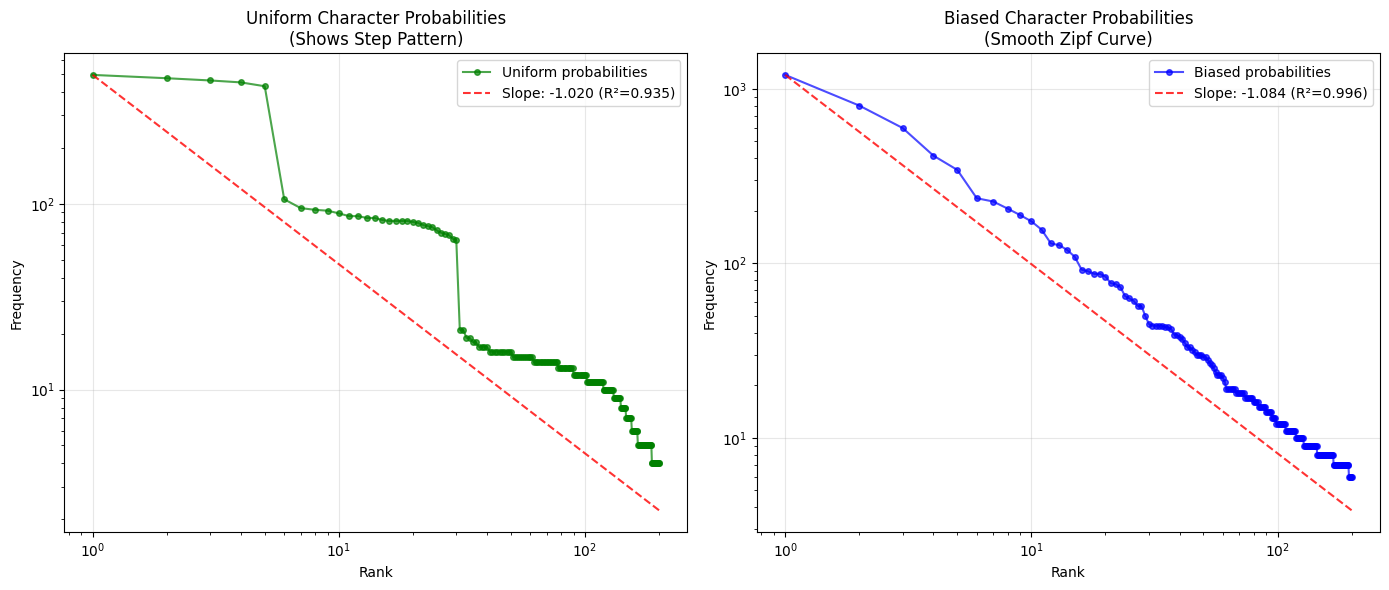
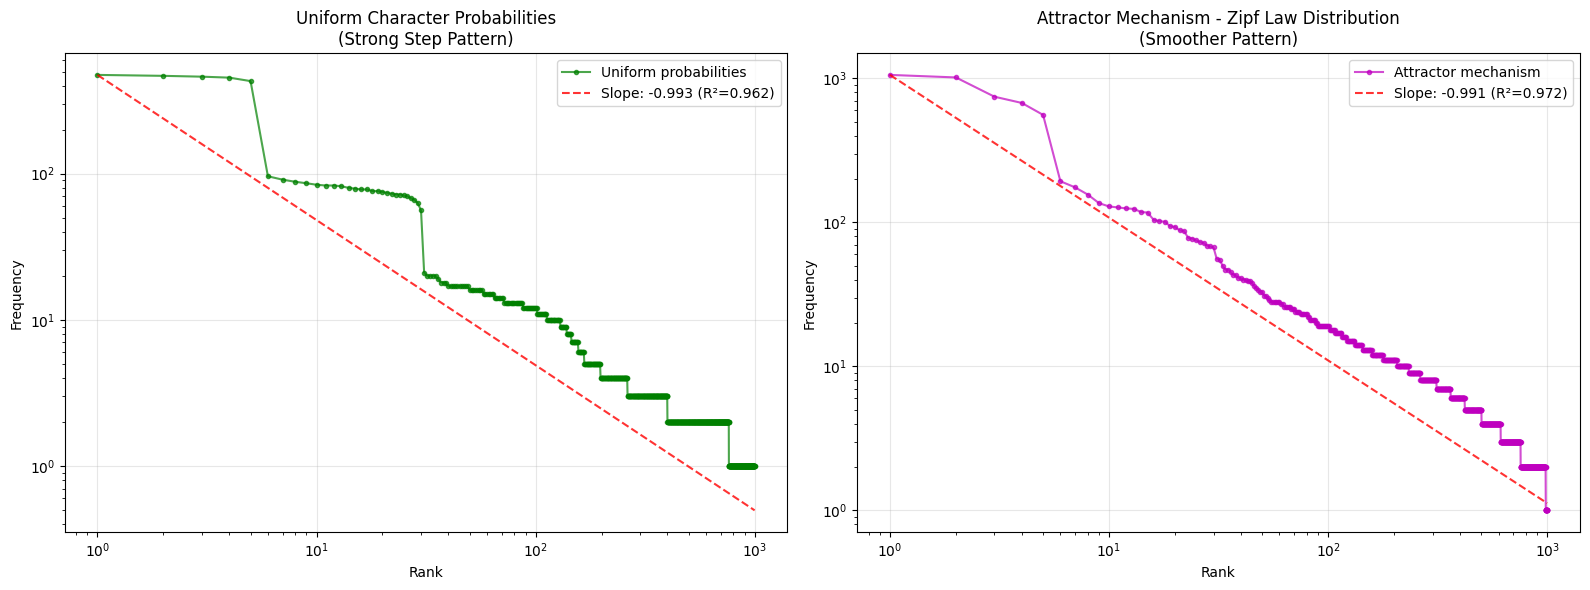
Update with attractor based probability distribution

diff --git a/posts/zipfs-law.md b/posts/zipfs-law.md
@@ -39,6 +39,8 @@ These occurrences hint at an emergent deeper pattern governing self-organizing n
 
 "In conclusion, Zipf's law is not a deep law in natural language as one might first have thought. It is very much related the particular representation one chooses, i.e., rank as the independent variable." -> Hinting again at a deeper pattern: the observer is part of the observation - the world is inherently subjective and will always look different depending how you look at it.
 
+I added an attractor based probability distribution (words that have occurred before are more likely to be sampled, which produces a smoother Zipf curve fit - hinting at attraction effects in natural processes?)
+
 ```python
 import random
 import matplotlib.pyplot as plt
@@ -46,18 +48,62 @@ from collections import Counter
 import numpy as np
 from scipy import stats
 
-def generate_li_uniform_text(num_chars=100000, alphabet=['a', 'b', 'c', 'd', 'e', '_']):
-    """Generate random text with uniform character probabilities"""
-    text = ''.join(random.choices(alphabet, k=num_chars))
-    words = [word for word in text.split('_') if word]
+attractor_strength = 1.11
+ALPHABET = ['a', 'b', 'c', 'd', 'e', '_']  # Example alphabet with underscore as word separator
+
+def calculate_dynamic_attractor_probability(total_words, base_prob=0.16, growth_rate=0.0008, max_prob=0.9):
+    """Calculate dynamic attractor probability based on total words generated"""
+    # Sigmoid-like growth: starts low, increases with more words, plateaus at max_prob
+    dynamic_prob = base_prob + (max_prob - base_prob) * (1 - np.exp(-growth_rate * total_words))
+    return min(dynamic_prob, max_prob)
+
+def generate_attractor_text(alphabet, num_chars=100000):
+    """Generate random text with dynamic attractor mechanism - probability increases with word count"""
+    words = []
+    word_counts = {}
+    
+    # Start with some initial random words
+    text = ''.join(random.choices(alphabet, k=num_chars // 10))
+    initial_words = [word for word in text.split('_') if word]
+    
+    for word in initial_words:
+        words.append(word)
+        word_counts[word] = word_counts.get(word, 0) + 1
+    
+    # Now generate words with dynamic preferential attachment
+    target_length = len(initial_words) * 10
+    
+    # Track probability changes for logging
+    prob_checkpoints = [len(words) * i // 10 for i in range(1, 11)]
+    
+    while len(words) < target_length:
+        # Calculate dynamic attractor probability based on total words generated
+        current_attractor_prob = calculate_dynamic_attractor_probability(len(words))
+        
+        # Log probability at checkpoints
+        if len(words) in prob_checkpoints:
+            print(f"Words generated: {len(words)}, Attractor probability: {current_attractor_prob:.3f}")
+        
+        if word_counts and random.random() < current_attractor_prob:  # Dynamic chance to use existing word
+            # Choose existing word with probability proportional to its frequency raised to power
+            word_list = list(word_counts.keys())
+            weights = [word_counts[word] ** attractor_strength for word in word_list]
+            chosen_word = random.choices(word_list, weights=weights, k=1)[0]
+            words.append(chosen_word)
+            word_counts[chosen_word] += 1
+        else:
+            # Generate new random word
+            word_length = random.randint(1, 5)
+            new_word = ''.join(random.choices(alphabet[:-1], k=word_length))
+            if new_word:  # Make sure it's not empty
+                words.append(new_word)
+                word_counts[new_word] = word_counts.get(new_word, 0) + 1
+    
     return words
 
-def generate_li_biased_text(num_chars=100000):
-    """Generate random text with biased character probabilities"""
-    alphabet = ['a', 'b', 'c', 'd', 'e', '_']
-    probabilities = [0.3, 0.2, 0.15, 0.1, 0.05, 0.2]  # biased weights
-    
-    text = ''.join(random.choices(alphabet, weights=probabilities, k=num_chars))
+def generate_li_uniform_text(alphabet, num_chars=100000):
+    """Generate random text with uniform character probabilities"""
+    text = ''.join(random.choices(alphabet, k=num_chars))
     words = [word for word in text.split('_') if word]
     return words
 
@@ -74,63 +120,61 @@ def calculate_zipf_slope(ranks, frequencies):
     slope, _, r_value, _, _ = stats.linregress(log_ranks[valid], log_freqs[valid])
     return slope, r_value**2
 
-def plot_li_experiments():
-    """Generate and plot both Li experiments"""
-    print("Generating Li's experiments...")
+def plot_attractor_experiment():
+    """Generate and plot attractor experiment with uniform comparison"""
+    print("Generating attractor mechanism experiment with uniform comparison...")
     
     # Generate data
-    uniform_words = generate_li_uniform_text()
-    biased_words = generate_li_biased_text()
+    uniform_words = generate_li_uniform_text(ALPHABET)
+    attractor_words = generate_attractor_text(ALPHABET)
     
-    print(f"Generated {len(uniform_words)} uniform words, {len(biased_words)} biased words")
+    print(f"Generated {len(uniform_words)} uniform words and {len(attractor_words)} attractor words")
     
     # Get frequency distributions
-    uniform_counts = Counter(uniform_words).most_common(200)
-    biased_counts = Counter(biased_words).most_common(200)
+    uniform_counts = Counter(uniform_words).most_common(1000)
+    attractor_counts = Counter(attractor_words).most_common(1000)
     
     # Prepare data for plotting
     uniform_ranks = np.array(range(1, len(uniform_counts) + 1))
     uniform_freqs = np.array([count for _, count in uniform_counts])
     
-    biased_ranks = np.array(range(1, len(biased_counts) + 1))
-    biased_freqs = np.array([count for _, count in biased_counts])
+    attractor_ranks = np.array(range(1, len(attractor_counts) + 1))
+    attractor_freqs = np.array([count for _, count in attractor_counts])
     
     # Calculate slopes
     uniform_slope, uniform_r2 = calculate_zipf_slope(uniform_ranks, uniform_freqs)
-    biased_slope, biased_r2 = calculate_zipf_slope(biased_ranks, biased_freqs)
+    attractor_slope, attractor_r2 = calculate_zipf_slope(attractor_ranks, attractor_freqs)
     
-    # Create plots
-    fig, (ax1, ax2) = plt.subplots(1, 2, figsize=(14, 6))
+    # Create comparison plot
+    fig, (ax1, ax2) = plt.subplots(1, 2, figsize=(16, 6))
     
     # Uniform case
-    ax1.loglog(uniform_ranks, uniform_freqs, 'go-', alpha=0.7, markersize=4, 
+    ax1.loglog(uniform_ranks, uniform_freqs, 'go-', alpha=0.7, markersize=3, 
                label='Uniform probabilities')
     
     if uniform_slope:
-        # Add fitted line
         fitted_line = uniform_freqs[0] * (uniform_ranks ** uniform_slope)
         ax1.loglog(uniform_ranks, fitted_line, 'r--', alpha=0.8, 
                    label=f'Slope: {uniform_slope:.3f} (R²={uniform_r2:.3f})')
     
     ax1.set_xlabel('Rank')
     ax1.set_ylabel('Frequency')
-    ax1.set_title('Uniform Character Probabilities\n(Shows Step Pattern)')
+    ax1.set_title('Uniform Character Probabilities\n(Strong Step Pattern)')
     ax1.grid(True, alpha=0.3)
     ax1.legend()
     
-    # Biased case
-    ax2.loglog(biased_ranks, biased_freqs, 'bo-', alpha=0.7, markersize=4, 
-               label='Biased probabilities')
+    # Attractor case
+    ax2.loglog(attractor_ranks, attractor_freqs, 'mo-', alpha=0.7, markersize=3, 
+               label='Attractor mechanism')
     
-    if biased_slope:
-        # Add fitted line
-        fitted_line = biased_freqs[0] * (biased_ranks ** biased_slope)
-        ax2.loglog(biased_ranks, fitted_line, 'r--', alpha=0.8, 
-                   label=f'Slope: {biased_slope:.3f} (R²={biased_r2:.3f})')
+    if attractor_slope:
+        fitted_line = attractor_freqs[0] * (attractor_ranks ** attractor_slope)
+        ax2.loglog(attractor_ranks, fitted_line, 'r--', alpha=0.8, 
+                   label=f'Slope: {attractor_slope:.3f} (R²={attractor_r2:.3f})')
     
     ax2.set_xlabel('Rank')
     ax2.set_ylabel('Frequency')
-    ax2.set_title('Biased Character Probabilities\n(Smooth Zipf Curve)')
+    ax2.set_title('Attractor Mechanism - Zipf Law Distribution\n(Smoother Pattern)')
     ax2.grid(True, alpha=0.3)
     ax2.legend()
     
@@ -139,13 +183,18 @@ def plot_li_experiments():
     
     # Print results
     print(f"\nResults:")
-    print(f"Uniform case: slope = {uniform_slope:.4f}, R² = {uniform_r2:.4f}")
-    print(f"Biased case:  slope = {biased_slope:.4f}, R² = {biased_r2:.4f}")
-    print(f"\nKey finding: Uniform probabilities create 'steps' in the distribution,")
-    print(f"while biased probabilities create a smooth Zipf-like curve.")
+    uniform_slope_str = f"{uniform_slope:.4f}" if uniform_slope is not None else "N/A"
+    uniform_r2_str = f"{uniform_r2:.4f}" if uniform_r2 is not None else "N/A"
+    attractor_slope_str = f"{attractor_slope:.4f}" if attractor_slope is not None else "N/A"
+    attractor_r2_str = f"{attractor_r2:.4f}" if attractor_r2 is not None else "N/A"
+    
+    print(f"Uniform case:   slope = {uniform_slope_str}, R² = {uniform_r2_str}")
+    print(f"Attractor case: slope = {attractor_slope_str}, R² = {attractor_r2_str}")
+    print(f"\nKey finding: The attractor mechanism creates a stronger Zipf-like distribution")
+    print(f"compared to uniform probabilities, demonstrating preferential attachment effects.")
 
-# Run the simplified experiment
-plot_li_experiments()
+# Run the attractor experiment
+plot_attractor_experiment()
 ```
 
 ![random-words-zipfs-law](/images/random-words-zipfs-law.png)
